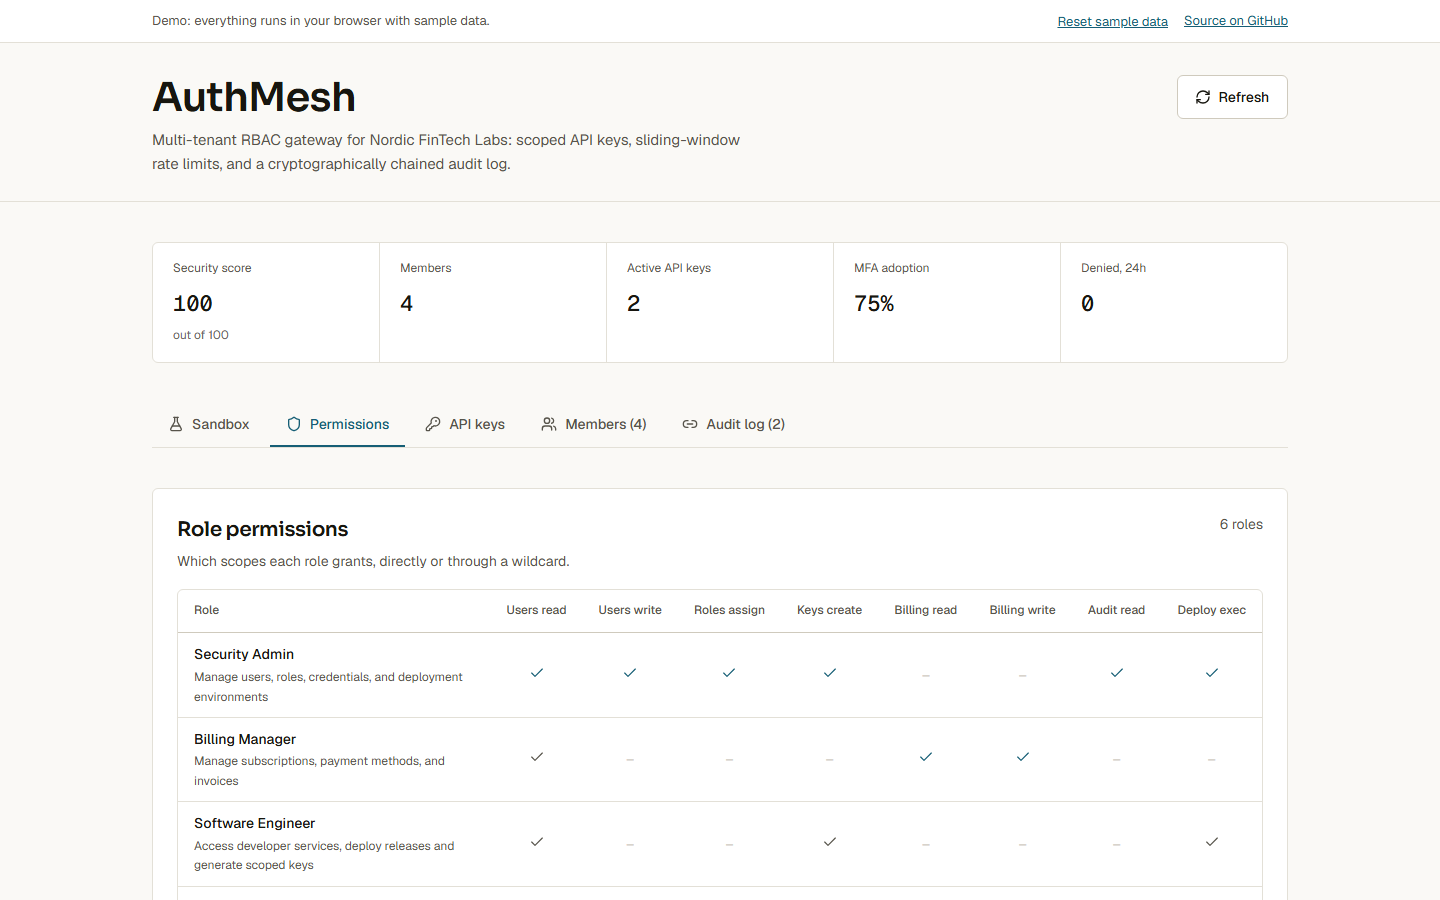
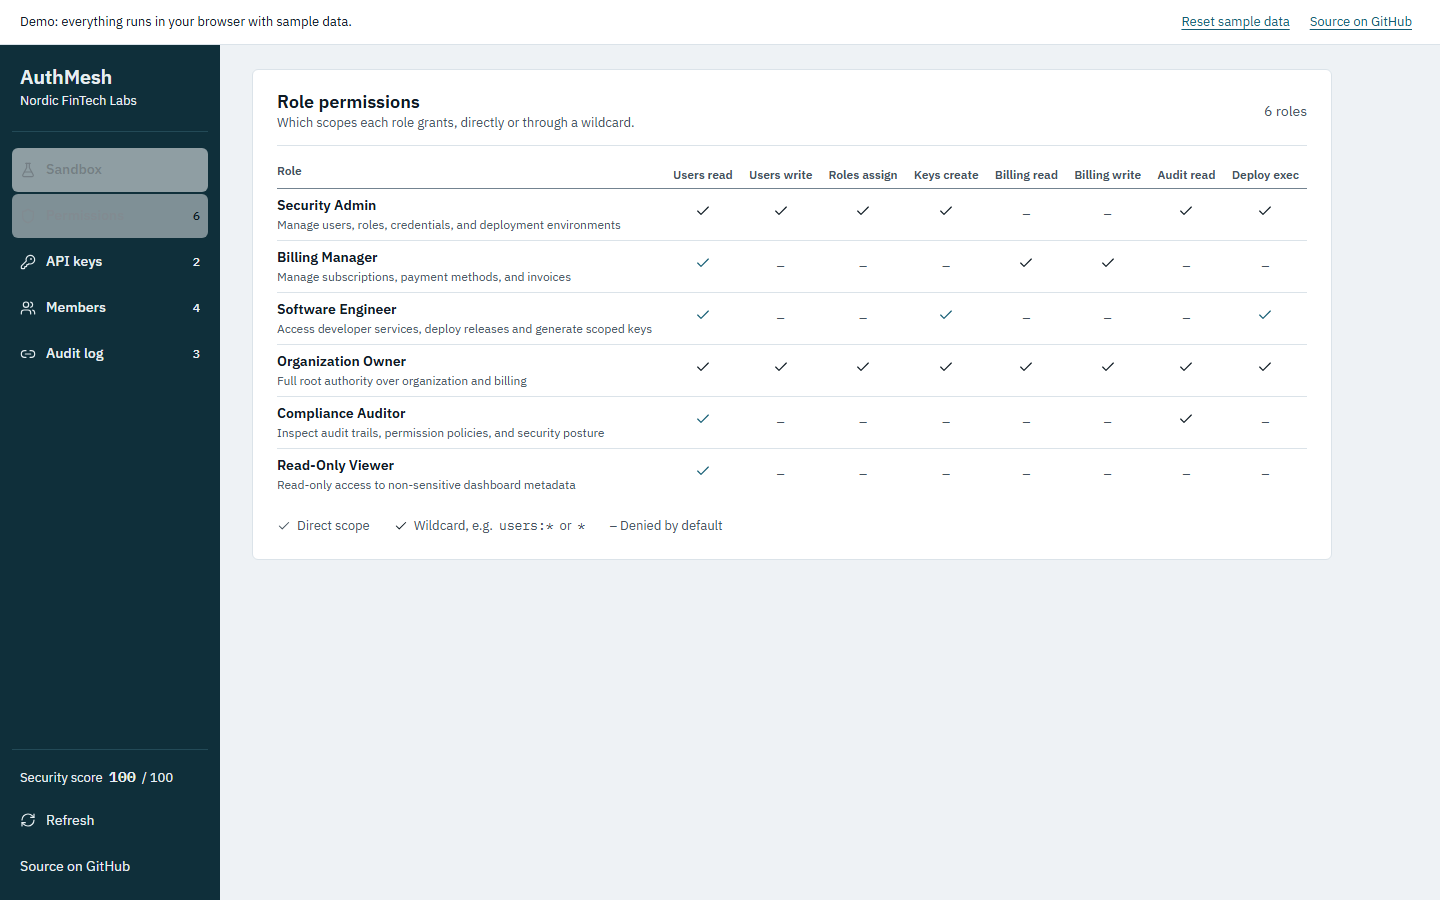
Refresh screenshots, README and changelog for the sidebar layout

diff --git a/CHANGELOG.md b/CHANGELOG.md
@@ -4,6 +4,12 @@ All notable changes to this project are documented in this file.
 
 The format is based on [Keep a Changelog](https://keepachangelog.com/en/1.1.0/).
 
+## [Unreleased]
+
+### Changed
+- New visual identity: a dark petrol sidebar lists Sandbox, Permissions, API keys, Members and Audit log with counts, and the security score sits on one line at the bottom of it. The main column shows one panel at a time on a pale slate background, with compact tables, dot-and-text status labels and a flat meter for MFA adoption.
+- Typography is now IBM Plex Sans with IBM Plex Mono for keys, paths and hashes. The stats strip and top header are gone; the sidebar replaces them. Behavior, features and API calls are unchanged.
+
 ## [1.0.0] - 2026-10-02
 
 ### Added

diff --git a/README.md b/README.md
@@ -16,7 +16,7 @@ Teams that need to hand a service, script, or contractor a scoped, revocable cre
 
 ## Screenshot
 
-![Security sandbox beside its result, under a single stats strip](docs/screenshots/01-dashboard.png)
+![Security sandbox beside its result, with the petrol sidebar on the left](docs/screenshots/01-dashboard.png)
 
 More screenshots: [RBAC policy matrix](docs/screenshots/02-rbac-matrix.png), [chained audit log](docs/screenshots/03-audit-log.png), [phone width](docs/screenshots/04-mobile.png).
 
